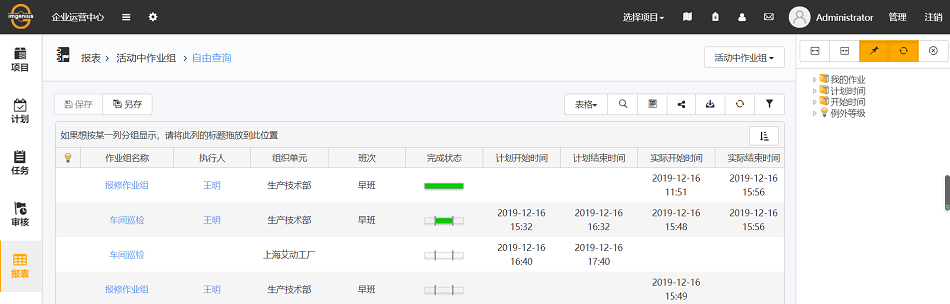
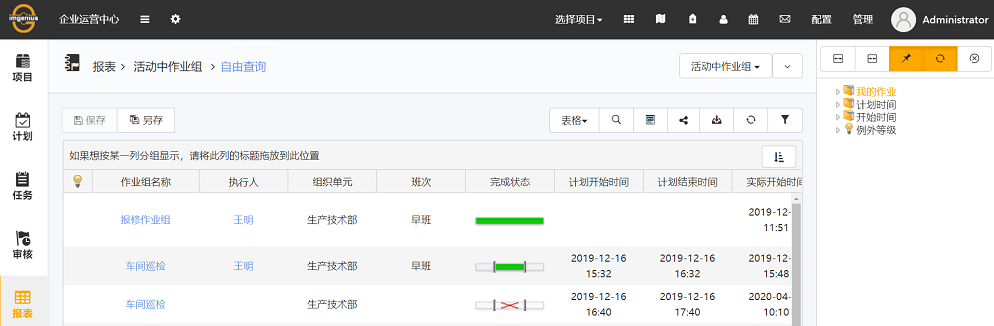
内容更新

diff --git a/sidebars.js b/sidebars.js
@@ -49,6 +49,7 @@ module.exports = {
           '用户使用手册/网页端/资产总览',
           '用户使用手册/网页端/人员总览',
           '用户使用手册/网页端/排班表',
+          '用户使用手册/网页端/作业组模板',
           {'管理员功能':
             [
             '用户使用手册/网页端/日志主题',

diff --git a/docs/用户使用手册/网页端/作业组模板.md b/docs/用户使用手册/网页端/作业组模板.md
@@ -1,0 +1,24 @@
+import useBaseUrl from '@docusaurus/useBaseUrl';
+
+作业组模板功能主要用来在Wbe端对作业组模板进行编辑，可以对作业组模板中的作业进行新增作业规范引用、重命名、删除和排序。
+
+* 首先，需要在SDC(解决方案开发中心)中，有作业组模板，和作业规范。当用户登录EOC(企业运营中心)后，在顶部导航栏的配置中，可以看到作业组模板，点击进入。
+* 左上角作业组模板中，可以选择已经在SDC中创建的所有作业组，选择之后支持对其进行新增作业，删除其中单个作业，删除全部的作业，调整作业的次序，为任意作业前和后插入新的作业。
+
+  <img alt=" " src={useBaseUrl('docimg/zuoyezumuban.png')} />
+
+* 页面概要：
+  * 左上为已创建的所有作业组模板，点击展开按钮即可查看选择
+  * 将鼠标置于作业图标前的按钮上，按住拖动即可调整排列次序
+  * 点击作业名称框，可以编辑名称
+  * 名称后为该作业引用的作业规范，和该作业关联的资产
+  * 删除按钮侧两个按钮分别为前插和后插，点击就可以弹出创建作业窗口，为此作业前/后新建作业规范引用
+  * 新增，点击弹出创建作业窗口，为当前作业组模板创业新的作业规范引用
+  * 全部删除，点击删除当前作业组模板下所有作业
+  * 保存，编辑完后点击保存，修改的内容会同步至服务器，SDC中也会变成编辑后的内容
+
+* 点击新增，弹出创建作业窗口，选择作业规范和资产，需要注意这里可选择的作业规范，都是在SDC上已发布了的，未发布的不会显示。资产的显示可选全路径和资产号，支持通过搜索快速选择资产，可以选择多个资产，选择了几个资产就会创建几个新作业。将鼠标放在资产和作业自动命名规则旁的问号上，可以获取相应的一些信息。作业的名称也可以在作业组模板页面编辑。相应信息：
+  * 作业组自动命名规则：fasset表示全路径资产名称，asset表示资产名称，ts表示作业规范名称
+  * 资产：按住 Ctrl 键可以选择多个资产
+
+  <img alt=" " src={useBaseUrl('docimg/zyzmb1.png')} />

diff --git a/docs/用户使用手册/网页端/个性设置.md b/docs/用户使用手册/网页端/个性设置.md
@@ -1,15 +1,22 @@
 
-
 import useBaseUrl from '@docusaurus/useBaseUrl';
 
-在个性设置中，用户可以设置自己的缺省首页以及报表模块中每页显示的行数，以适应自己的需求。
+* 个性设置位于顶部导航栏的用户名处。
 
-<img alt=" " src={useBaseUrl('docimg/gexingshezhi.png')} />
+  <img alt=" " src={useBaseUrl('docimg/gexingshezhi.png')} />
+
+* 在个性设置中，用户可以设置自己的缺省首页以及报表模块中每页显示的行数，以适应自己的需求。
+  
+  <img alt=" " src={useBaseUrl('docimg/gexingshezhi2.png')} />
 
 * 基本设置
   * 资产显示设置：提供简单名称和复合名称两种类型。
   * 报表每页显示行数：缺省为每页20行，可以根据需要增加或减少，一定数量以后会以滚动条形式增加行数。
   * 首页：设置登录进企业运营中心后所在的页面。
+  * 表格列宽显示格式：可以选择自适应列宽，当表格列中的内容过长时，会自动适应，如果设置了每列最大宽度，则只显示宽度内的内容，剩余部分会显示'...'，将鼠标放置于上面，会显示出剩余部分的内容。如果选择默认初始列宽度，则与之前一样，到达某一宽度后换行显示。
+  * 表格每列最大宽度：设置对表格宽度的显示限制。选择自适应列宽，设置最大宽度为50之后的效果：
+
+    <img alt=" " src={useBaseUrl('docimg/biaogeyouhua4.png')} />
 
 * 报表设置
   * 可设置每页显示的行数以及各个状态下可以隐藏的列。

diff --git a/docs/用户使用手册/终端/登录.md b/docs/用户使用手册/终端/登录.md
@@ -9,8 +9,27 @@ import useBaseUrl from '@docusaurus/useBaseUrl';
   + 分配给所属组织单元的轮班
   + 轮班的班次
   + 登录密码
+
+### 密码登录
+
 * 选择登陆的用户，选择完输入密码，勾选上记住密码，若需要修改密码，则在登录之后的配置当中修改。
 
   <img alt=" " src={useBaseUrl('docimg/zhongduan1.png')} />
   
 * 全部完成点击登录即可。
+
+### 人脸识别登录
+
+* 要使用此功能，首先需要安装人脸识别版本的apk，安装完成打开应用完成配置和同步，第一次要用密码登录，之后在配置中完成注册才可以。
+
+  * 登录后，在配置——系统中，可以看到新增了注册人脸选项，未登录的话此项不可见。
+
+    <img alt=" " src={useBaseUrl('docimg/renlian1.png')} />
+
+  * 选择人脸采集，将脸放入采集框内，识别成功后点击确认并提交注册，等待注册成功提示即可。如果注册失败，请再次采集。
+
+    <img alt=" " src={useBaseUrl('docimg/renlian2.png')} />
+
+  * 注册成功的用户，之后就可以选择刷脸登录了，注意识别具有唯一性，比如一张脸注册了两个用户，那么识别出的是最新注册的那个。
+
+    <img alt=" " src={useBaseUrl('docimg/renlian3.png')} />

diff --git a/docs/用户使用手册/终端/审核.md b/docs/用户使用手册/终端/审核.md
@@ -3,7 +3,15 @@ import useBaseUrl from '@docusaurus/useBaseUrl';
 
 * 拥有审核权限的用户登录应用之后，如有待审核作业组，那么点进待审核页面后，可以看到待审核的作业组，点击作业组即可对该作业组进行审核。
 
-* 进入待审核作业组后，可以看到对于该作业组所进行的作业内容，审核意见处可输入对于该作业的意见，选择批准或退回。
+* 进入待审核作业组后，可以看到对于该作业组所进行的作业内容，审核意见处可输入对于该作业的意见，选择批准、退回、后退或终止。
 
-* 如若退回，则该作业组会回到执行阶段，执行人员可以看到审核意见，并重新进行作业。
+* 选择批准，则作业组流转到所属业务流程的下一个活动阶段。
+
+* 选择退回，则该作业组会回到执行阶段，执行人员可以看到审核意见，并重新进行作业。
+
+* 选择后退，则作业组会后退到上一个活动节点。
+
+* 选择终止，则作业组在此活动阶段结束流程流转。
+
   <img alt=" " src={useBaseUrl('docimg/zhongduan6.png')} />
+  

diff --git a/docs/用户使用手册/网页端/报表.md b/docs/用户使用手册/网页端/报表.md
@@ -1,7 +1,7 @@
 
 import useBaseUrl from '@docusaurus/useBaseUrl';
 
-报表页面提供给用户所关心的现场作业情况的报表，供用户查看和分析。报表页面右侧为筛选器，允许用户根据不同的条件对报表列表进行筛选，以在中间报表视图中列出自己感兴趣的报表数据，还允许用户将筛选条件或个性查询保存至导航栏便于应用。
+报表页面提供给用户所关心的现场作业情况的报表，供用户查看和分析。报表页面右侧为筛选器，允许用户根据不同的条件对报表列表进行筛选，以在中间报表视图中列出自己感兴趣的报表数据，还允许用户将筛选条件或个性查询保存至导航栏便于应用。报表类型名右侧为隐藏工具条的按钮，点击可将工具条栏隐藏起来，内容则会自动适应隐藏后的高度。隐藏工具条功能会作用于整个网站，所有带工具条的页面同时应用设置。
 
 <img alt=" " src={useBaseUrl('docimg/baobiao1.png')} />
 

diff --git a/docs/用户使用手册/网页端/计划.md b/docs/用户使用手册/网页端/计划.md
@@ -46,10 +46,10 @@ import useBaseUrl from '@docusaurus/useBaseUrl';
 
 ## 计划的执行人
 
-<img alt=" " src={useBaseUrl('docimg/jihua5.png')} />
-
 * 按流程，勾选按流程后该作业组的执行人按照SDC业务流程管理器中配选的流程作业块中的执行人执行。
 * 按制定执行人，勾选按指定执行人后，可以选用两种配置方式，人员选择等于（不等于）某个指定的人员（不等于这个人员的所有其他人）。角色指定为某个岗位或者部门中的所有人。
+
+  <img alt=" " src={useBaseUrl('docimg/jihua5.png')} />
 
 :::note 注释
 如果同时勾选按流程和按指定执行人，这两者的关系为并行，即两者都可执行。

diff --git a/docs/用户使用手册/网页端/消息订阅.md b/docs/用户使用手册/网页端/消息订阅.md
@@ -1,7 +1,7 @@
 
 import useBaseUrl from '@docusaurus/useBaseUrl';
 
-消息订阅功能主要对有些作业组待执行待审核、库存数量和在库时间以及知识库的编写修改等情况下，及时让相关用户收到提醒。
+消息订阅功能主要对项目、作业组待执行待审核、库存数量和在库时间以及知识库的编写修改等情况下，及时让相关用户收到提醒。
 
 * Web端：显示在我们Web端，EOC上
 * 移动终端：显示在我们作业组执行的页面
